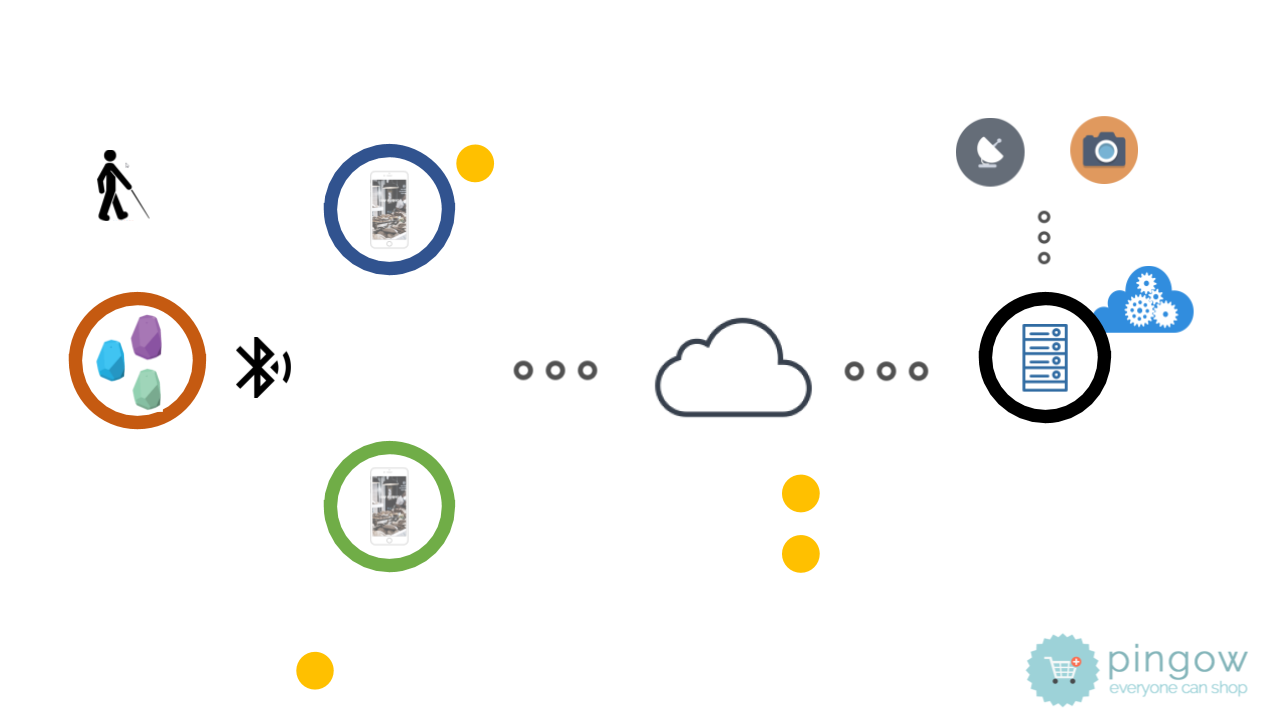
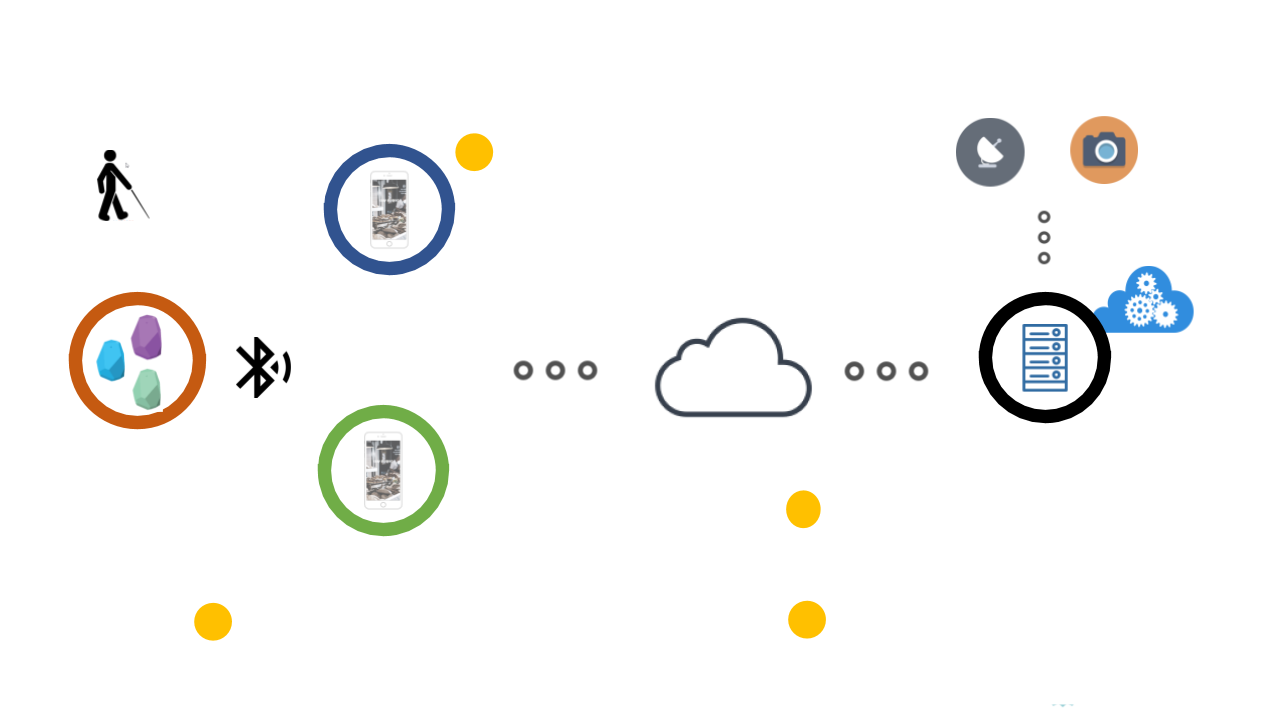
Touch up layoutitng
Touch up layout

diff --git a/slide_03.htm b/slide_03.htm
@@ -4152,9 +4152,10 @@
         <article role="article" class="slide" title="Slide 1">
             <section class="slide-content" title="Slide content" style="width:1280px; height:720px;background-image: url(img/slide03.png);">
                 <div class="shape" title="" style="width:1057px; height:65px; top:26px; left:57px">
-                    <p style="font-weight:700;font-style:normal;text-decoration:none;background-color:inherit;color:#4472C4;font-family:Calibri;font-size:44.0pt;font-variant:normal;text-align:left;direction:ltr;">How Our Solution Works<br>
-                      <span style="font-size:18.0pt;">Scenario 3</span> <br>
-                      <span style="font-size:12.0pt; padding-left:90px;">This is Joe</span>
+                    <p style="font-weight:700;font-style:normal;text-decoration:none;background-color:inherit;color:#4472C4;font-family:Calibri;font-variant:normal;text-align:left;direction:ltr;">
+                      <span style="font-size:18.0pt;font-size:44.0pt;">How Our Solution Works<br></span>
+                      <span style="font-size:18.0pt;">Scenario 3<br></span>
+                      <span style="font-size:12.0pt; padding-left:10px;">This is Joe.</span>
                     </p>
                 </div>
                 <div class="group" title="">
@@ -4164,7 +4165,7 @@
                         <div class="shape" title="Rectangle" style="width:33px; height:48px; top:336px; left:94px"></div>
                         <div class="shape" title="Rectangle" style="width:36px; height:50px; top:312px; left:128px"></div>
                     </div>
-                    <div class="shape" title="" style="width:84px; height:30px; top:431px; left:94px">
+                    <div class="shape" title="" style="width:94px; height:30px; top:431px; left:94px">
                         <p style="font-weight:700;font-style:normal;text-decoration:none;background-color:inherit;color:#000000;font-family:Calibri;font-size:18.0pt;font-variant:normal;text-align:center;direction:ltr;">Beacons<span style="font-weight:400;font-family:Arial;font-size:14.0pt;"></span></p>
                     </div>
                 </div>
@@ -4177,7 +4178,7 @@
                 <div class="group" title="">
                     <div class="group" title="">
                         <div class="shape" title="Oval" style="width:65px; height:75px; top:468px; left:356px"></div>
-                        <div class="shape" title="" style="width:168px; height:59px; top:574px; left:305px">
+                        <div class="shape" title="" style="width:178px; height:59px; top:540px; left:305px">
                             <p style="font-weight:700;font-style:normal;text-decoration:none;background-color:inherit;color:#000000;font-family:Calibri;font-size:18.0pt;font-variant:normal;text-align:center;direction:ltr;">Shop Assistant’s <span style="font-weight:400;font-family:Arial;font-size:14.0pt;"></span></p>
                             <p style="font-weight:700;font-style:normal;text-decoration:none;background-color:inherit;color:#000000;font-family:Calibri;font-size:18.0pt;font-variant:normal;text-align:center;direction:ltr;">Smartphones<span style="font-weight:400;font-family:Arial;font-size:14.0pt;"></span></p>
                         </div>
@@ -4185,7 +4186,7 @@
                     <div class="shape" title="Rectangle" style="width:41px; height:81px; top:466px; left:369px"></div>
                 </div>
                 <div class="group" title="">
-                    <div class="shape" title="" style="width:135px; height:59px; top:280px; left:321px">
+                    <div class="shape" title="" style="width:145px; height:59px; top:280px; left:321px">
                         <p style="font-weight:700;font-style:normal;text-decoration:none;background-color:inherit;color:#000000;font-family:Calibri;font-size:18.0pt;font-variant:normal;text-align:center;direction:ltr;">User’s <span style="font-weight:400;font-family:Arial;font-size:14.0pt;"></span></p>
                         <p style="font-weight:700;font-style:normal;text-decoration:none;background-color:inherit;color:#000000;font-family:Calibri;font-size:18.0pt;font-variant:normal;text-align:center;direction:ltr;">Smartphones<span style="font-weight:400;font-family:Arial;font-size:14.0pt;"></span></p>
                     </div>
@@ -4209,46 +4210,46 @@
                       (5 min later, Joe changes his mind. Joe is making his way home.)</br>
                       <span style="color:#000000;font-family:Arial;"></span></p>
                 </div>
-                <div class="shape" title="Oval" style="width:8px; height:18px; top:153px; left:470px">
+                <div class="shape" title="Oval" style="width:8px; height:18px; top:140px; left:470px">
                     <p style="font-weight:700;font-style:normal;text-decoration:none;background-color:inherit;color:#FFFFFF;font-family:Calibri;font-size:14.0pt;font-variant:normal;text-align:center;direction:ltr;">1<span style="font-weight:400;color:#000000;font-family:Arial;"></span></p>
                 </div>
-                <div class="shape" title="Rectangle" style="width:450px; height:24px; top:450px; left:832px">
+                <div class="shape" title="Rectangle" style="width:430px; height:24px; top:450px; left:832px">
                     <p style="font-weight:400;font-style:normal;text-decoration:none;background-color:inherit;color:#2F5496;font-family:Calibri;font-size:14.0pt;font-variant:normal;text-align:left;direction:ltr;">
                       Pingow’s server detects that Joe is &lt; 10M away from Challenger store. Pingow notifies Mary. </br>
                       5min later, Pingow detects Joe is walking away from the store. Pingow detects Joe is walking towards the exit. </br>
 
                       <span style="color:#000000;font-family:Arial;"></span></p>
                 </div>
-                <div class="shape" title="Oval" style="width:8px; height:18px; top:484px; left:796px">
+                <div class="shape" title="Oval" style="width:8px; height:18px; top:500px; left:800px">
                     <p style="font-weight:700;font-style:normal;text-decoration:none;background-color:inherit;color:#FFFFFF;font-family:Calibri;font-size:14.0pt;font-variant:normal;text-align:center;direction:ltr;">2<span style="font-weight:400;color:#000000;font-family:Arial;"></span></p>
                 </div>
-                <div class="shape" title="Rectangle" style="width:450px; height:69px; top:550px; left:825px">
+                <div class="shape" title="Rectangle" style="width:430px; height:69px; top:580px; left:832px">
                     <p style="font-weight:400;font-style:normal;text-decoration:none;background-color:white;color:#2F5496;font-family:Calibri;font-size:14.0pt;font-variant:normal;text-align:left;direction:ltr;">
+                      Pingow alerts Joe’s caregiver that Joe has left the shopping mall. (Joe is a subscriber of  “Caregiver Program”.)</br>
+                      Joe's caregiver no longer worries about Joe going out alone. Joe is smart. Be like Joe.</br>
+
+                    </p>
+                </div>
+                <div class="shape" title="Oval" style="width:8px; height:18px; top:610px; left:800px">
+                    <p style="font-weight:700;font-style:normal;text-decoration:none;background-color:inherit;color:#FFFFFF;font-family:Calibri;font-size:14.0pt;font-variant:normal;text-align:center;direction:ltr;">4<span style="font-weight:400;color:#000000;font-family:Arial;"></span></p>
+                </div>
+                <div class="shape" title="Rectangle" style="width:500px; height:46px; top:595px; left:250px">
+                    <p style="font-weight:400;font-style:normal;text-decoration:none;background-color:inherit;color:#2F5496;font-family:Calibri;font-size:14.0pt;font-variant:normal;text-align:left;direction:ltr;">
                       Mary receives the notification (with Joe’s profile, too) from Pingow. </br>
                       5 min later, Mary receives the next notification that Joe is moving away from the store. Mary knows Joe won't be coming soon. </br>
                       Mary serves the other customers first. </br>
 
-                    </p>
-                </div>
-                <div class="shape" title="Oval" style="width:8px; height:18px; top:544px; left:796px">
-                    <p style="font-weight:700;font-style:normal;text-decoration:none;background-color:inherit;color:#FFFFFF;font-family:Calibri;font-size:14.0pt;font-variant:normal;text-align:center;direction:ltr;">3<span style="font-weight:400;color:#000000;font-family:Arial;"></span></p>
-                </div>
-                <div class="shape" title="Rectangle" style="width:449px; height:46px; top:630px; left:342px">
-                    <p style="font-weight:400;font-style:normal;text-decoration:none;background-color:inherit;color:#2F5496;font-family:Calibri;font-size:14.0pt;font-variant:normal;text-align:left;direction:ltr;">
-                    Pingow alerts Joe’s caregiver that Joe has left the shopping mall. (Joe is a subscriber of  “Caregiver Program”.)</br>
-                    Joe's caregiver no longer worries about Joe going out alone. Joe is smart. Be like Joe.</br>
-
                       <span style="color:#000000;font-family:Arial;"></span></p>
                 </div>
-                <div class="shape" title="Oval" style="width:8px; height:18px; top:661px; left:310px">
-                    <p style="font-weight:700;font-style:normal;text-decoration:none;background-color:inherit;color:#FFFFFF;font-family:Calibri;font-size:14.0pt;font-variant:normal;text-align:center;direction:ltr;">4<span style="font-weight:400;color:#000000;font-family:Arial;"></span></p>
+                <div class="shape" title="Oval" style="width:8px; height:18px; top:610px; left:210px">
+                    <p style="font-weight:700;font-style:normal;text-decoration:none;background-color:inherit;color:#FFFFFF;font-family:Calibri;font-size:14.0pt;font-variant:normal;text-align:center;direction:ltr;">3<span style="font-weight:400;color:#000000;font-family:Arial;"></span></p>
                 </div>
                 <div class="group" title="">
                     <div class="shape" title="Rectangle" style="width:103px; height:68px; top:265px; left:1091px"></div>
                     <div class="group" title="">
                         <div class="shape" title="Rectangle" style="width:68px; height:69px; top:323px; left:1011px"></div>
                         <div class="shape" title="Oval" style="width:65px; height:75px; top:319px; left:1012px"></div>
-                        <div class="shape" title="" style="width:65px; height:30px; top:426px; left:1017px">
+                        <div class="shape" title="" style="width:75px; height:30px; top:426px; left:1017px">
                             <p style="font-weight:700;font-style:normal;text-decoration:none;background-color:inherit;color:#000000;font-family:Calibri;font-size:18.0pt;font-variant:normal;text-align:center;direction:ltr;">Server<span style="font-weight:400;font-family:Arial;font-size:14.0pt;"></span></p>
                         </div>
                     </div>
@@ -4269,10 +4270,13 @@
                 <div class="shape" title="Rectangle" style="width:59px; height:73px; top:150px; left:55px"></div>
                 <div id="introjs" data-intro="" data-step="1"  class="shape" title="" style="width:630px; height:215px; top:120px; left:308px">
                 </div>
-                <div id="introjs" data-intro="" data-step="2" data-position="left" class="shape" title="" style="width:620px; height:420px; top:260px; left:650px">
+                <div id="introjs" data-intro="" data-step="2" data-position="left" class="shape" title="" style="width:620px; height:290px; top:260px; left:650px">
                 </div>
-                <div id="introjs" data-intro="" data-step="3" data-position="right" class="shape" title="" style="width:510px; height:270px; top:440px; left:280px">
+                <div id="introjs" data-intro="" data-step="3" data-position="right" class="shape" title="" style="width:570px; height:300px; top:400px; left:180px">
                 </div>
+                <div id="introjs" data-intro="" data-step="4" data-position="left" class="shape" title="" style="width:500px; height:150px; top:550px; left:760px">
+                </div>
+
             </section>
         </article>
         <script>

diff --git a/slide_02.htm b/slide_02.htm
@@ -4151,12 +4151,13 @@
         <a href="slide_03.htm" style="background-color:white; padding-left:10px;padding-right:10px;">For Visually Impaired Users</a>
         <article role="article" class="slide" title="Slide 1">
             <section class="slide-content" title="Slide content" style="width:1280px; height:720px;background-image: url(img/slide02.png);">
-                <div class="shape" title="" style="width:1057px; height:65px; top:26px; left:57px">
-                    <p style="font-weight:700;font-style:normal;text-decoration:none;background-color:inherit;color:#4472C4;font-family:Calibri;font-size:44.0pt;font-variant:normal;text-align:left;direction:ltr;">How Our Solution Works<br>
-                      <span style="font-size:18.0pt;">Scenario 2</span></br>
-                      <span style="font-size:12.0pt; padding-left:100px;">This is Bill</span>
-                    </p>
-                </div>
+              <div class="shape" title="" style="width:1057px; height:65px; top:26px; left:57px">
+                  <p style="font-weight:700;font-style:normal;text-decoration:none;background-color:inherit;color:#4472C4;font-family:Calibri;font-variant:normal;text-align:left;direction:ltr;">
+                    <span style="font-size:18.0pt;font-size:44.0pt;">How Our Solution Works<br></span>
+                    <span style="font-size:18.0pt;">Scenario 2<br></span>
+                    <span style="font-size:12.0pt; padding-left:10px;">This is Bill.</span>
+                  </p>
+              </div>
                 <div class="group" title="">
                     <div class="group" title="">
                         <div class="shape" title="Oval" style="width:69px; height:79px; top:320px; left:102px"></div>

diff --git a/slide_01.htm b/slide_01.htm
@@ -4152,12 +4152,13 @@
 
         <article role="article" class="slide" title="Slide 1">
             <section class="slide-content" title="Slide content" style="width:1280px; height:720px;background-image: url(img/slide01.png);">
-                <div class="shape" title="" style="width:1057px; height:65px; top:26px; left:57px">
-                    <p style="font-weight:700;font-style:normal;text-decoration:none;background-color:inherit;color:#4472C4;font-family:Calibri;font-size:44.0pt;font-variant:normal;text-align:left;direction:ltr;">How Our Solution Works<br>
-                      <span style="font-size:18.0pt;">Scenario 1</span></br>
-                      <span style="font-size:12.0pt; padding-left:130px;">This is Bill</span>
-                    </p>
-                </div>
+              <div class="shape" title="" style="width:1057px; height:65px; top:26px; left:57px">
+                  <p style="font-weight:700;font-style:normal;text-decoration:none;background-color:inherit;color:#4472C4;font-family:Calibri;font-variant:normal;text-align:left;direction:ltr;">
+                    <span style="font-size:18.0pt;font-size:44.0pt;">How Our Solution Works<br></span>
+                    <span style="font-size:18.0pt;">Scenario 1<br></span>
+                    <span style="font-size:12.0pt; padding-left:10px;">This is Bill.</span>
+                  </p>
+              </div>
                 <div class="group" title="">
                     <div class="group" title="">
                         <div class="shape" title="Oval" style="width:69px; height:79px; top:320px; left:102px"></div>
